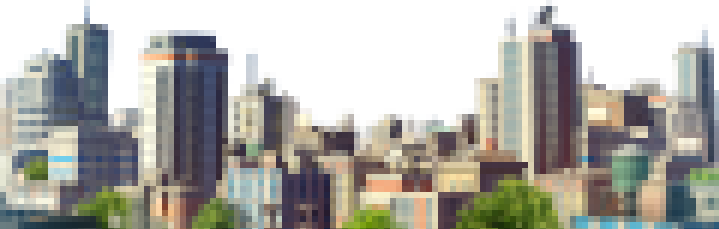
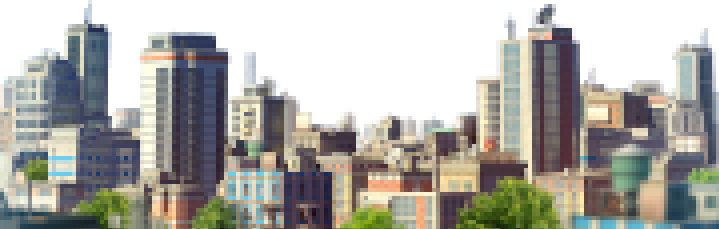
added sprite animation and background

Changed region(s): [[0.0, 0.0, 1.0, 1.0]]

diff --git a/Player.js b/Player.js
@@ -12,12 +12,17 @@ class Player {
     this.y -= 15;
     this.velocity -= this.jumpHeight;
   }
+  setup() {}
 
   draw() {
     this.velocity += GRAVITY;
     this.y += this.velocity;
 
-    image(pigeon, this.x, this.y, this.width, this.height);
+    image(pigeon[currentImageIndex], this.x, this.y, this.height, this.width);
+    currentImageIndex++;
+    if (currentImageIndex > 4) {
+      currentImageIndex = 0;
+    }
 
     if (this.y >= this.floor) {
       this.y = this.floor;

diff --git a/Background.js b/Background.js
@@ -1,13 +1,13 @@
 class Background {
   constructor() {
     this.x = 0;
-    this.y = 0;
+    this.y = 300;
     this.width = CANVASWIDTH;
-    this.height = CANVASHEIGHT;
+    this.height = 300;
   }
 
   draw() {
-    this.x - +3;
+    this.x -= 3;
 
     image(backgroundImage, this.x, this.y, this.width, this.height);
     image(

diff --git a/Main.js b/Main.js
@@ -15,4 +15,8 @@ function keyPressed() {
 function preload() {
   pigeon = loadImage("assets/tile0.png");
   backgroundImage = loadImage("assets/buildings.png");
+
+  for (var i = 0; i < 5; i++) {
+    pigeon[i] = loadImage("/assets/tile" + i + ".png");
+  }
 }

diff --git a/Game.js b/Game.js
@@ -11,8 +11,9 @@ class Game {
   draw() {
     clear();
     this.background.draw();
-    background("#CEECF4");
+
     this.player.draw();
+    this.player.setup();
   }
 
   keyPressed() {

diff --git a/Variables.js b/Variables.js
@@ -8,7 +8,8 @@ let backgroundImage;
 let buildings;
 let powerLines;
 let plane;
-let pigeon;
+let pigeon = [];
+var currentImageIndex = 0;
 
 //game variables
 const GRAVITY = 0.1;
